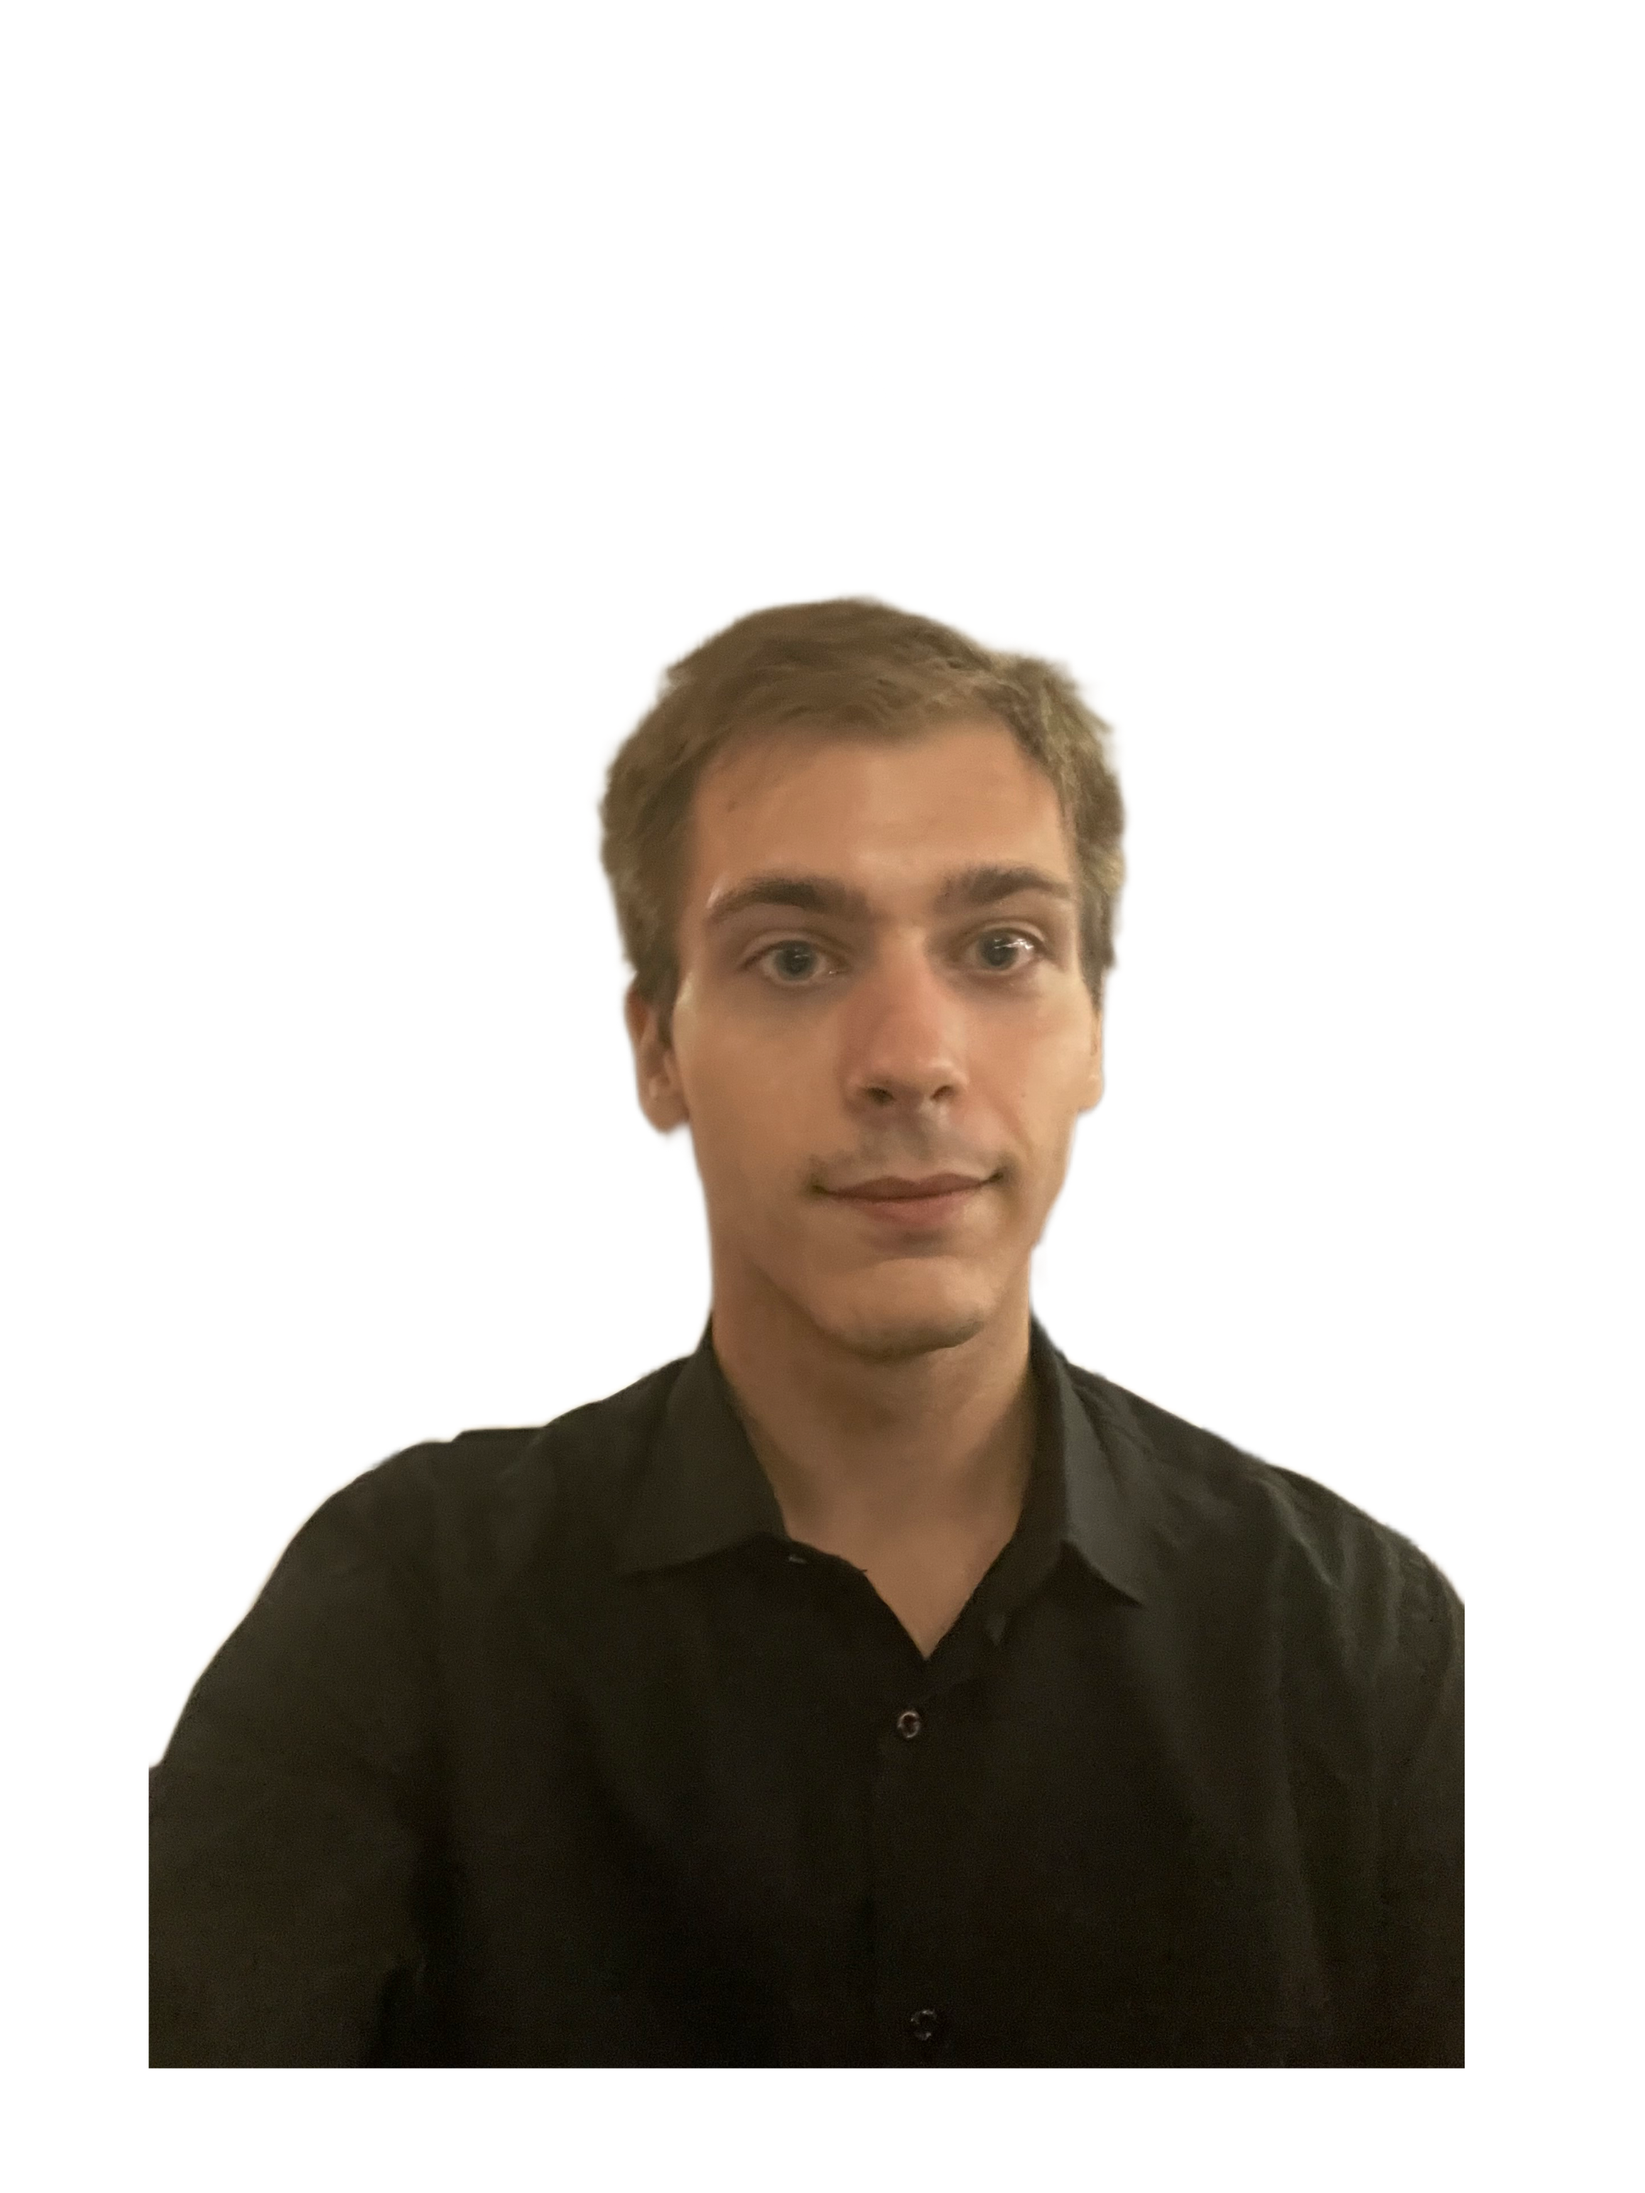
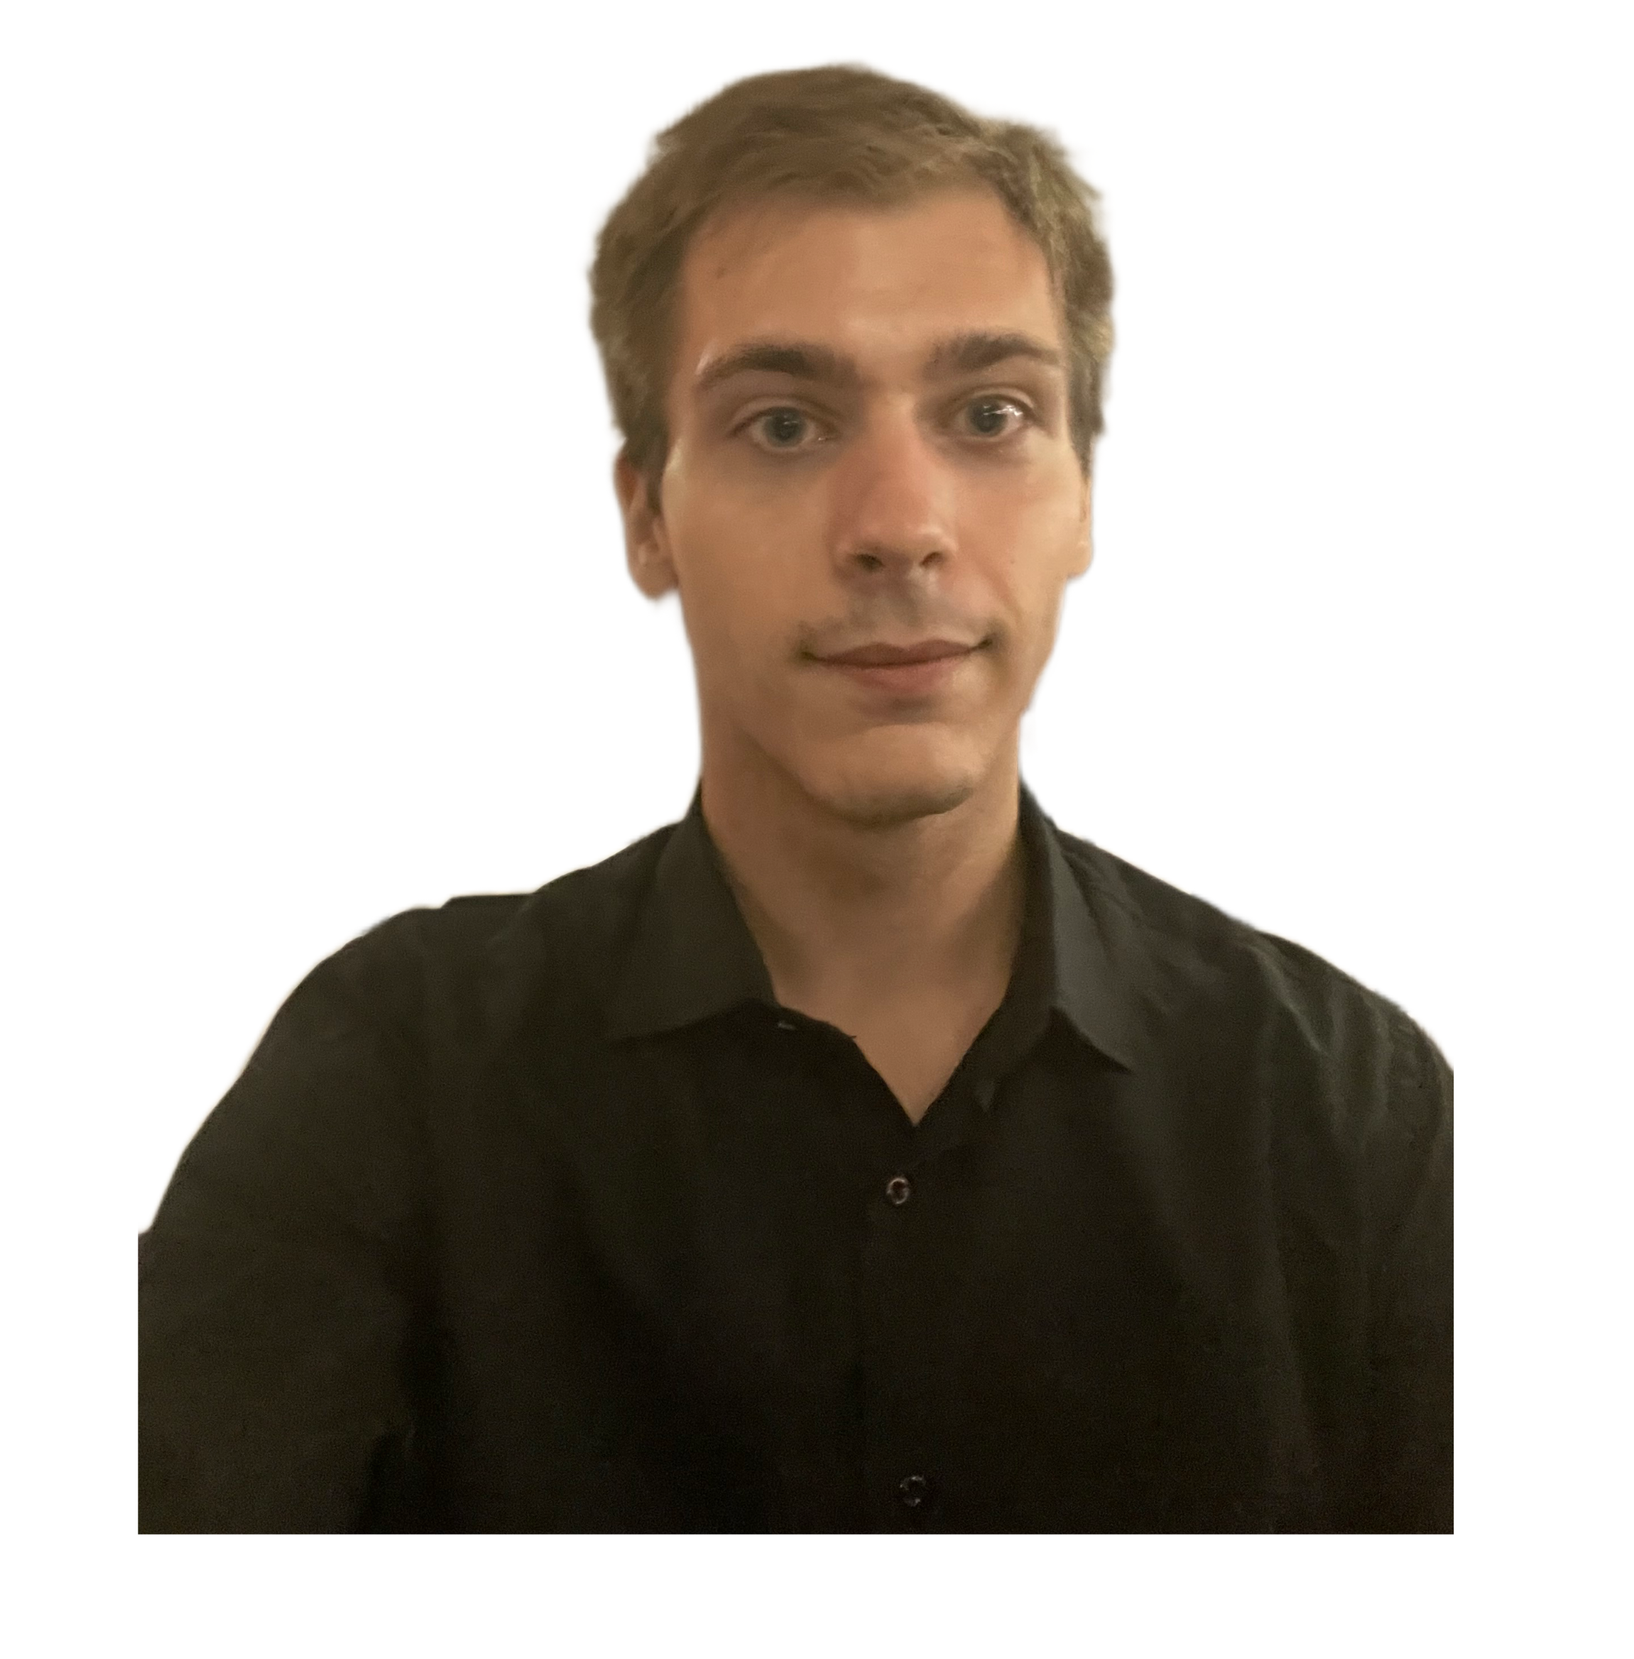
Visual update

Changed region(s): [[0.0617, 0.0312, 0.8948, 0.9683]]

diff --git a/index.html b/index.html
@@ -4,10 +4,12 @@
 <head>
   <meta charset="utf-8">
   <title>Dorian's Personal Site</title>
+  <link rel="stylesheet" href="css/styles.css">
+
 </head>
 
-<body>
 
+<body>
   <table cellspacing="20">
     <tr>
       <td><img src="images/image.png" alt="dorian profile picture"></img></td>
@@ -24,7 +26,7 @@
     </tr>
   </table>
 
-  <hr size="2" noshade>
+  <hr>
 
   <h3>Education</h3>
   <ul>
@@ -33,7 +35,7 @@
     <li>Bachlers degree in Mechanical Engineering, <a href="https://sfsb.unisb.hr/">Mechanical Engineering Faculty in Slavonski Brod</a>, <a href="http://www.unios.hr/en/">University JJ Strosmayer in Osijek</a></li>
     <li>Strojarska Tehnička Škola Osijek</li>
   </ul>
-  <hr size="2" noshade>
+  <hr>
 
   <h3>Work Experience</h3>
   <table cellspacing="10">
@@ -54,7 +56,7 @@
       </tr>
     </tbody>
   </table>
-  <hr size="2" noshade>
+  <hr>
 
   <h3>Skills</h3>
   <table border="0">
@@ -85,10 +87,9 @@
       </td>
   </table>
 
-  <hr size="2" noshade>
+  <hr>
 
   <a href="contact.html">My Contact</a>
-
 </body>
 
 </html>

diff --git a/css/styles.css b/css/styles.css
@@ -1,0 +1,25 @@
+body {
+  /* color palet: https://colorhunt.co/palette/06283d256d8547b5ffdff6ff */
+  background-color: #DFF6FF;
+}
+
+hr {
+  border-style: none;
+  border-top-style: dotted;
+  border-color: grey;
+  border-width: 5px;
+  width: 30%;
+}
+
+img {
+  height: 300px;
+  border-radius: 50%;
+}
+
+h1 {
+  color: #06283D;
+}
+
+h3 {
+  color: #256D85;
+}
